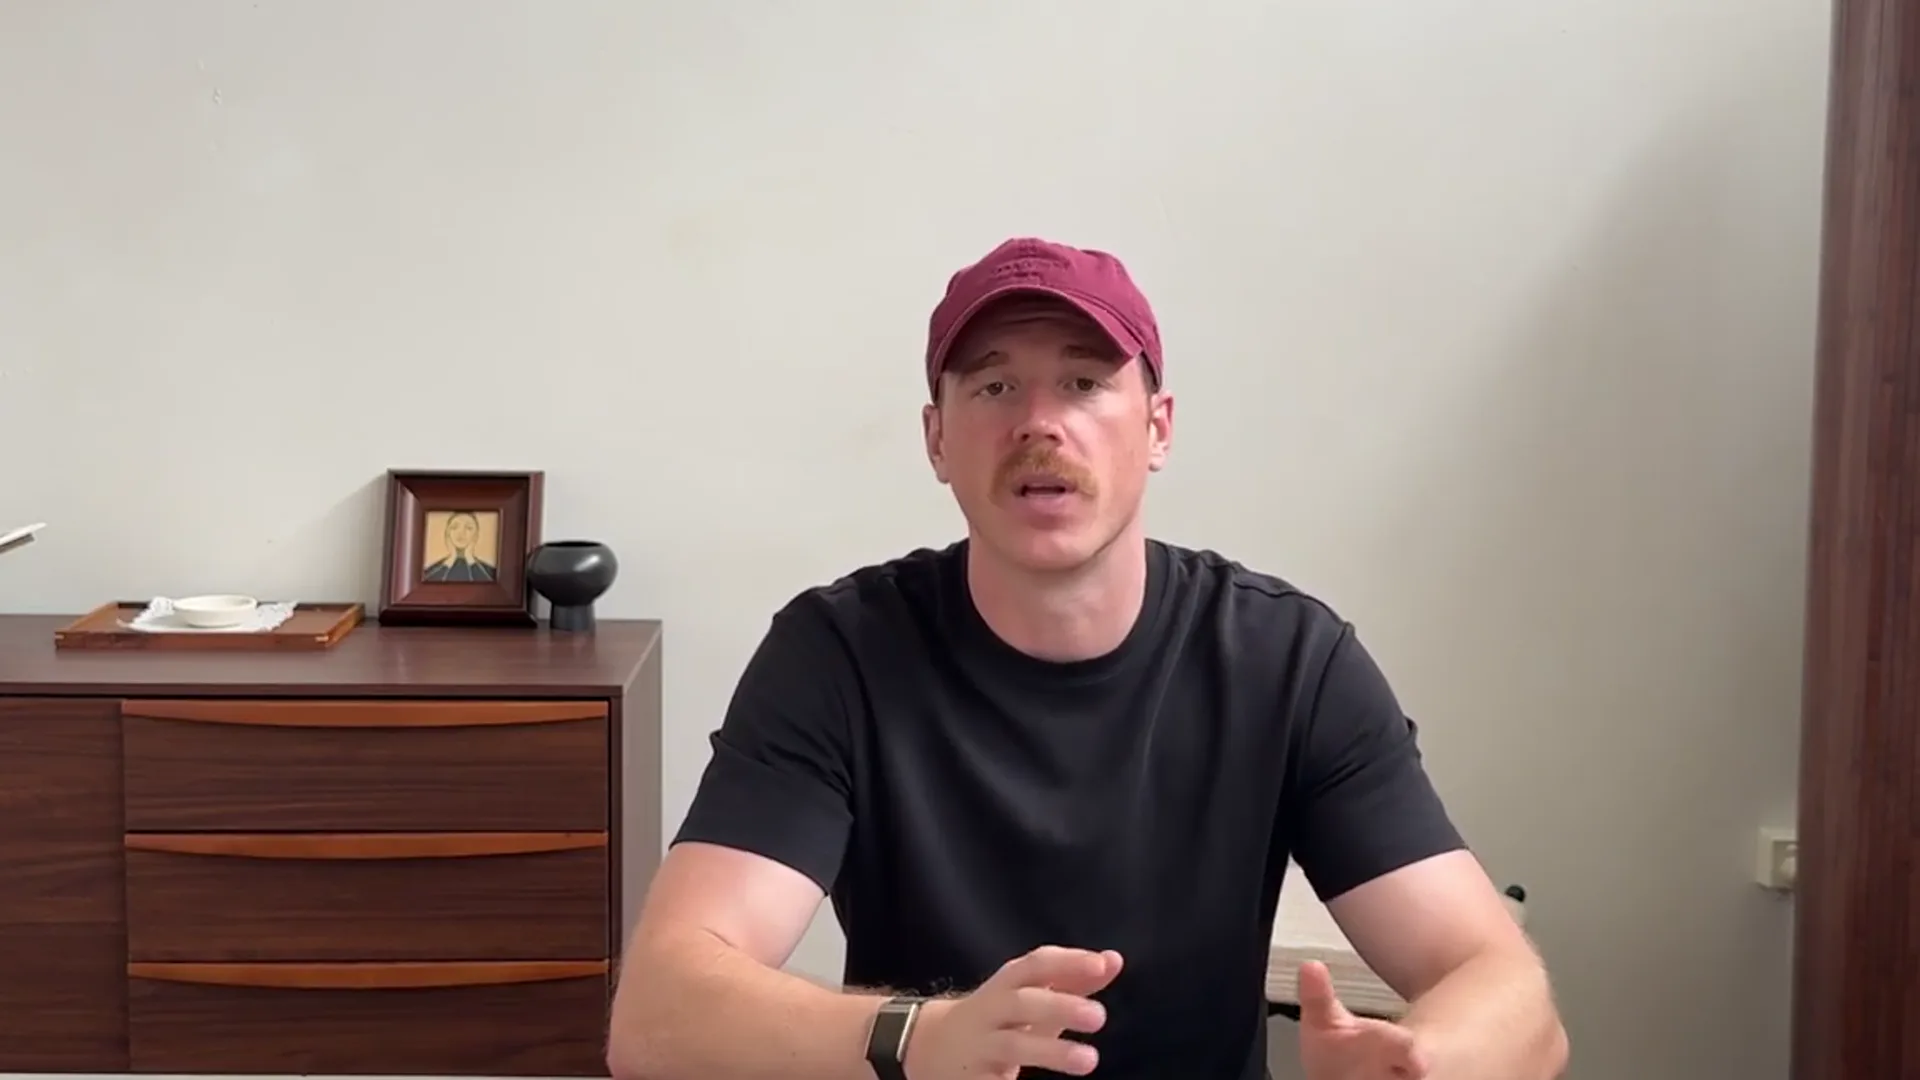
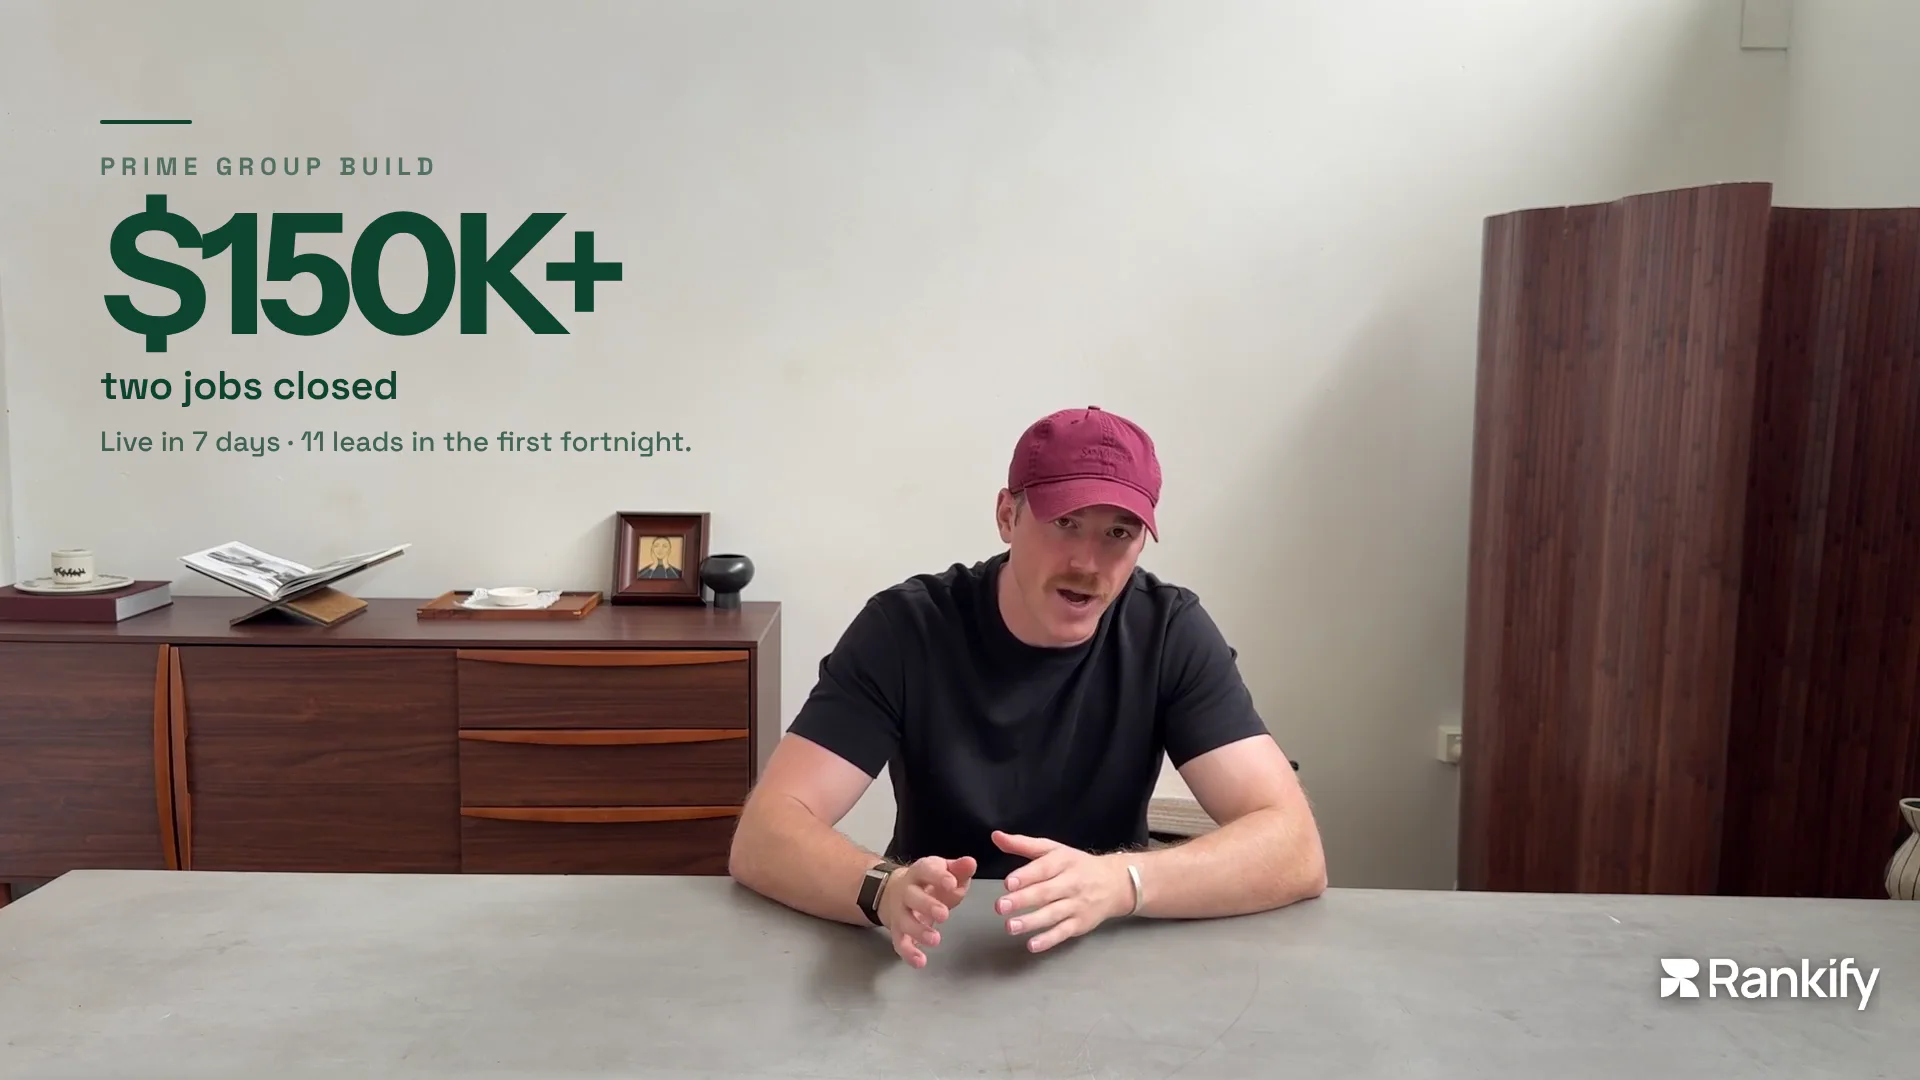
Thumbnail becomes the Prime Group result frame
Full frame rather than a crop, because the $150K+ card sits in the left
third and cropping in would cut it. The scrim is lighter so the result
reads through it.

diff --git a/src/components/landing/FunnelVideo.tsx b/src/components/landing/FunnelVideo.tsx
@@ -113,7 +113,7 @@ export function FunnelVideo({
             type="button"
             onClick={() => seek()}
             aria-label="Play the video"
-            className="absolute inset-0 flex items-center justify-center bg-black/20 transition-colors hover:bg-black/10"
+            className="absolute inset-0 flex items-center justify-center bg-black/10 transition-colors hover:bg-black/[0.04]"
           >
             <Image
               src={asset(POSTER)}
